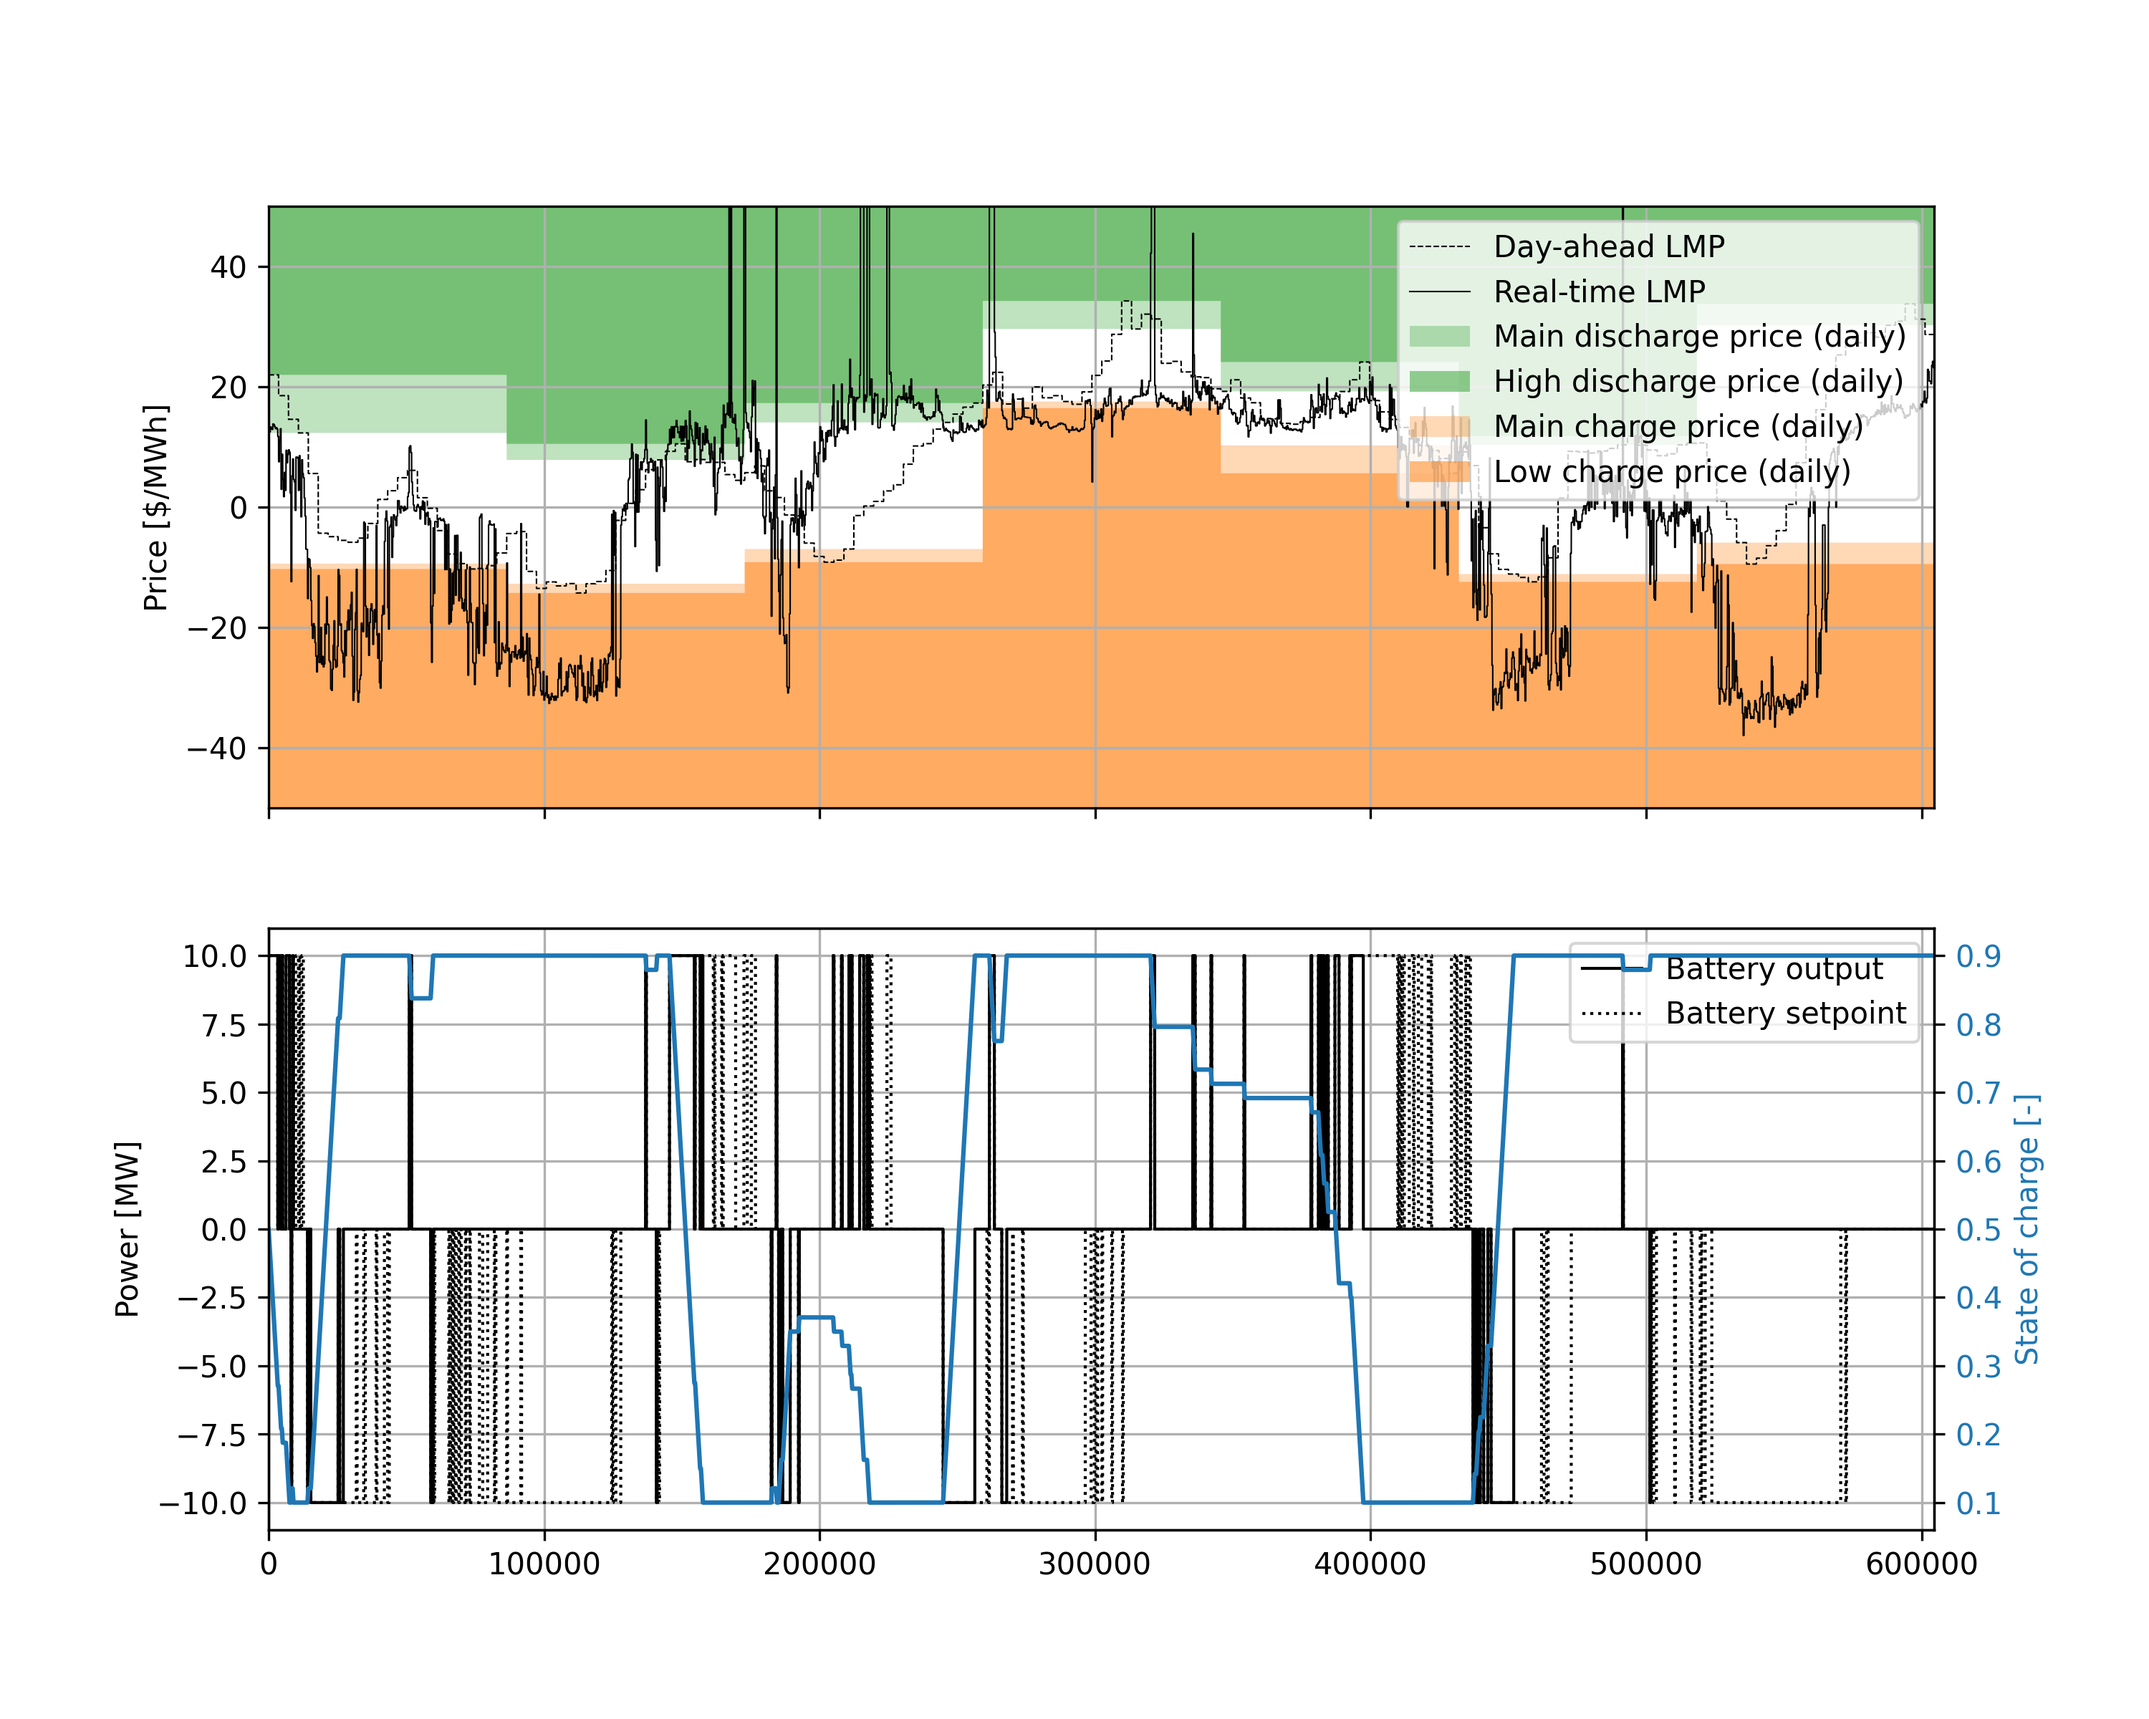
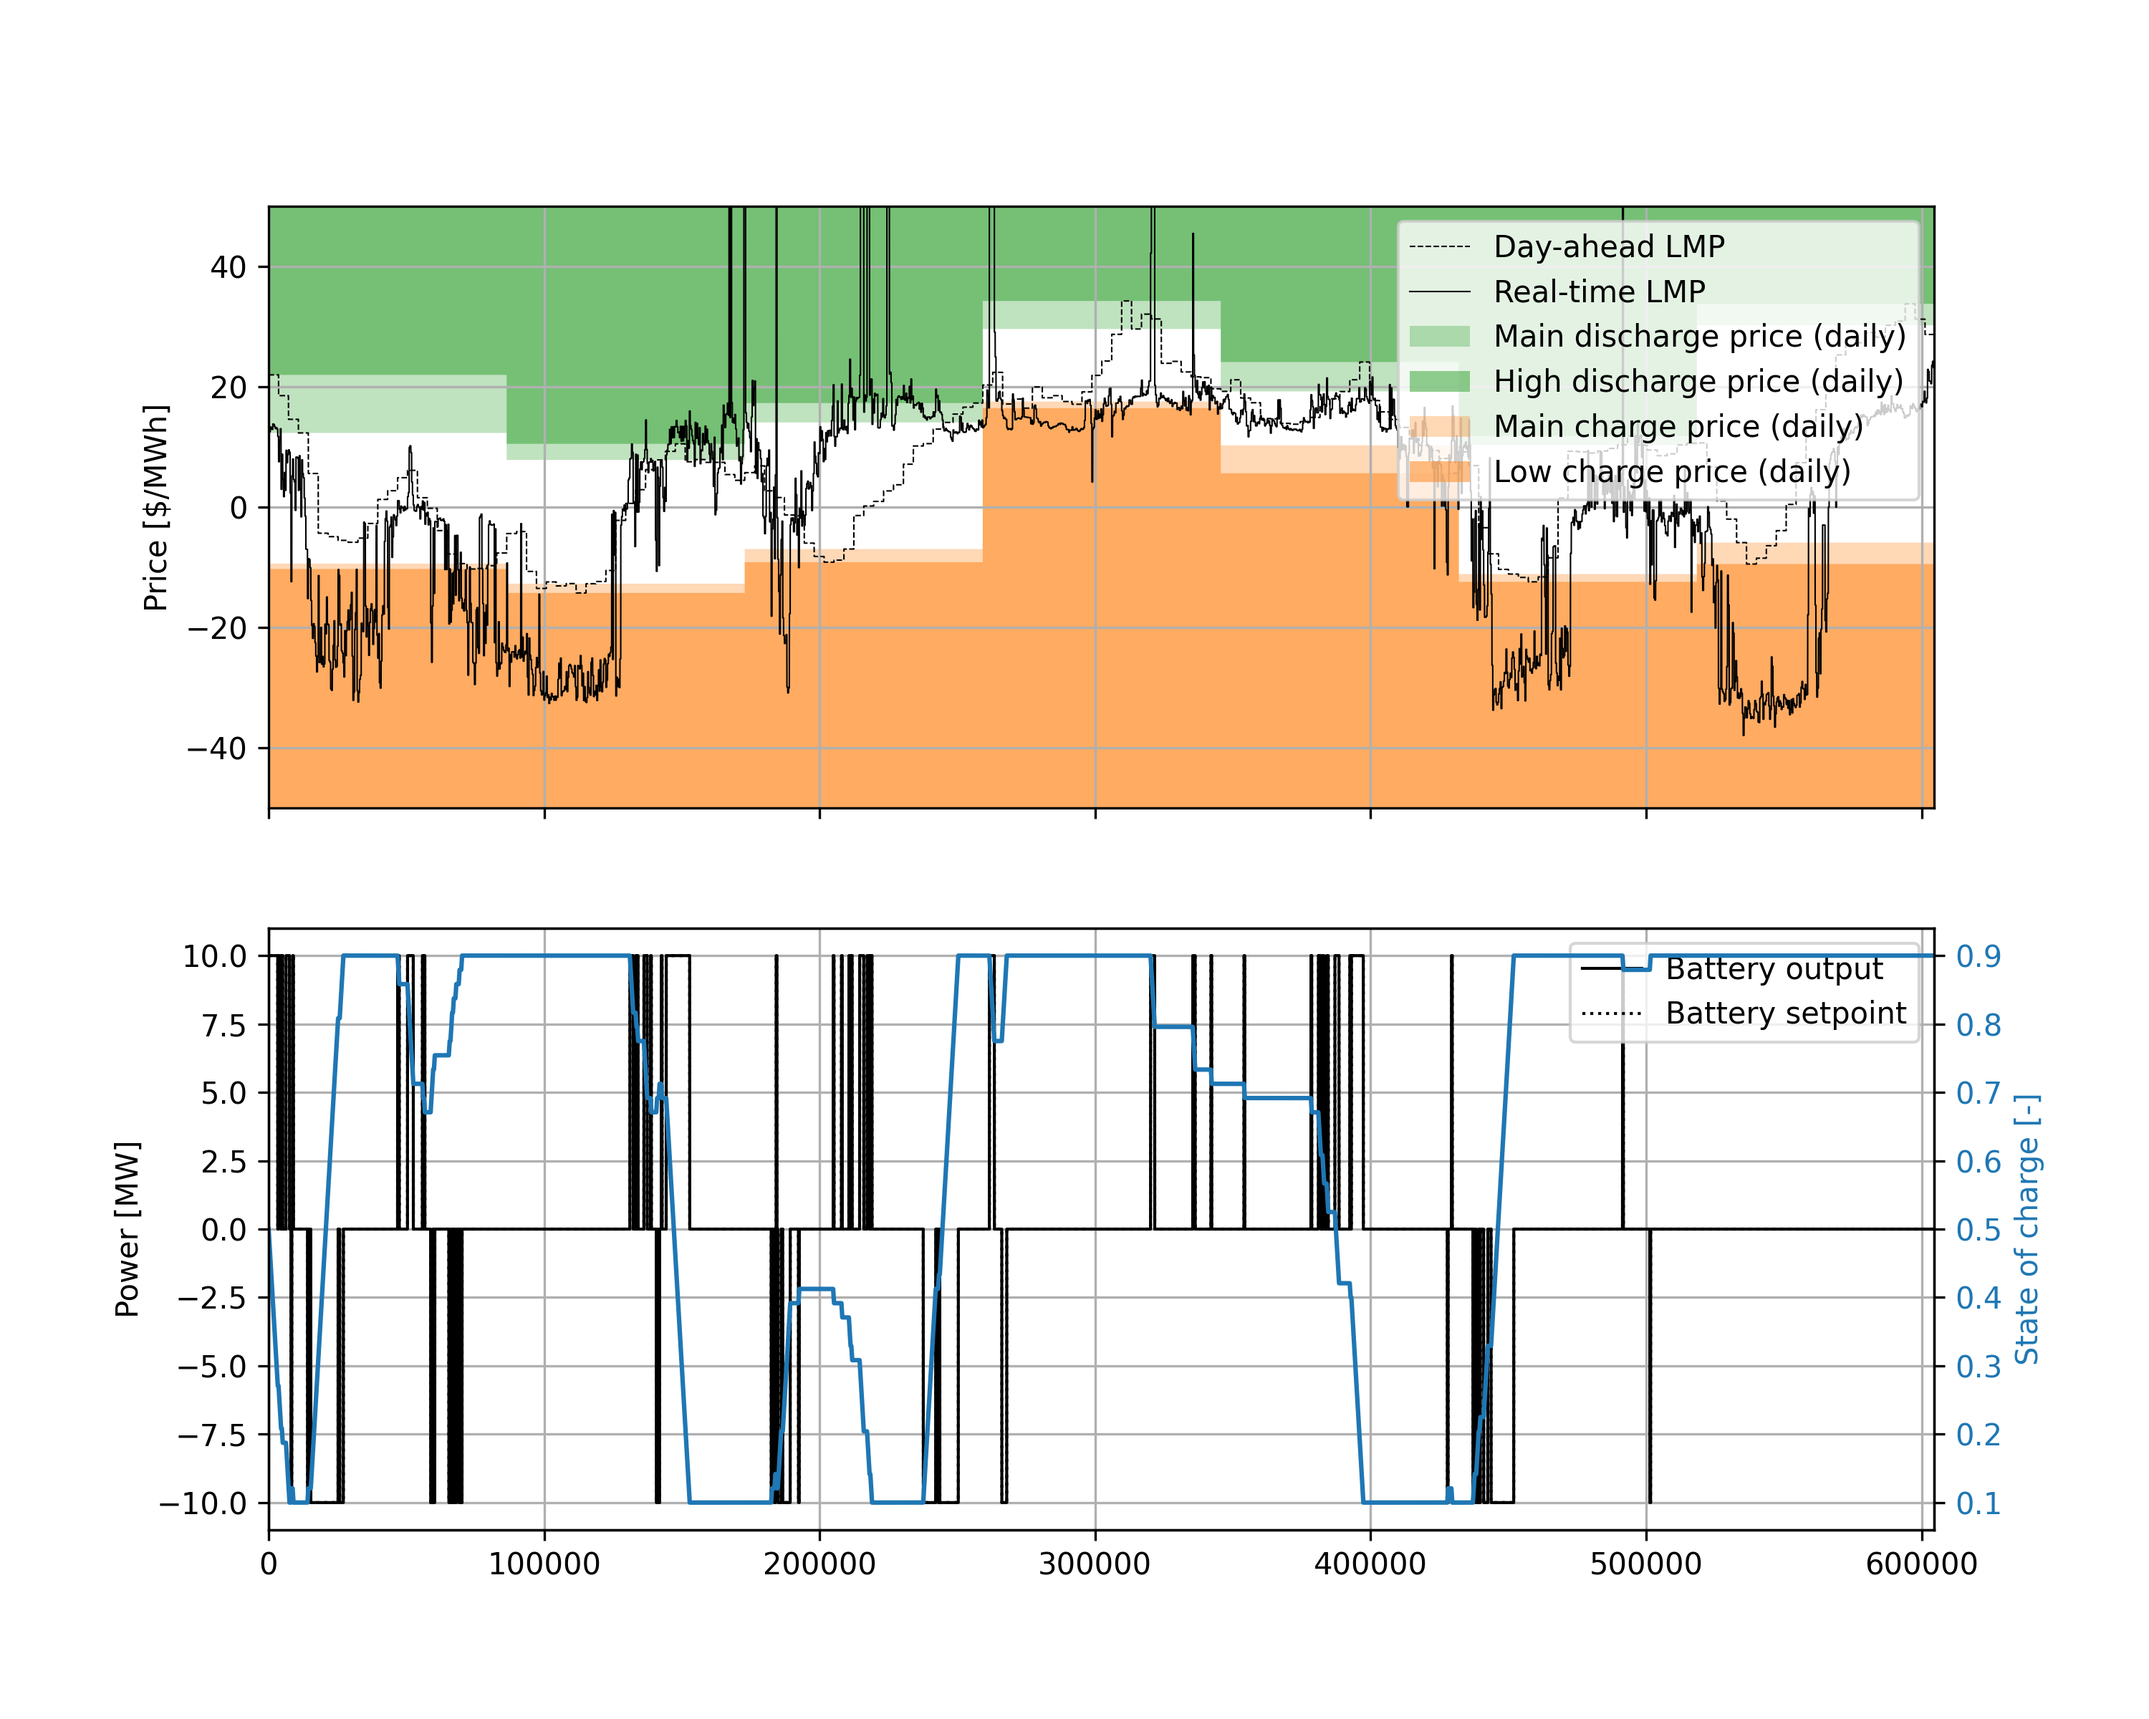
Minor example plots updates

diff --git a/examples/battery_market_revenue_control/plot_outputs.py b/examples/battery_market_revenue_control/plot_outputs.py
@@ -1,4 +1,5 @@
 # Plot the outputs of the simulation for the wind and storage example
+import argparse
 
 import matplotlib.pyplot as plt
 import numpy as np
@@ -138,12 +139,23 @@ def plot_outputs():
 
     # Compute total revenue on real-time market
     df["revenue_rt"] = df["battery.power"] / 1e3 * df["external_signals.lmp_rt"] / 3600
-    print("Real-time revenue over simulation: ${:.1f}".format(df["revenue_rt"].sum()))
+    print("Real-time revenue over simulation: ${:.2f}".format(df["revenue_rt"].sum()))
 
     return fig
 
 
 if __name__ == "__main__":
+    parser = argparse.ArgumentParser(description="Plot outputs of battery market example")
+
+    parser.add_argument(
+        "--save_plots", type=bool, default=False, help="Whether to save the generated plots"
+    )
+
+    args = parser.parse_args()
+
     fig = plot_outputs()
-    # fig.savefig("../../docs/graphics/battery-market.png", dpi=300, format="png")
+
+    if args.save_plots:
+        fig.savefig("../../docs/graphics/battery-market.png", dpi=300, format="png")
+
     plt.show()

diff --git a/examples/wind_farm_power_tracking/plot_outputs.py b/examples/wind_farm_power_tracking/plot_outputs.py
@@ -1,3 +1,5 @@
+import argparse
+
 import matplotlib.pyplot as plt
 from hercules import HerculesOutput
 
@@ -66,6 +68,17 @@ def plot_outputs():
 # both controllers meet the setpoint.
 
 if __name__ == "__main__":
+    parser = argparse.ArgumentParser(description="Plot outputs of battery market example")
+
+    parser.add_argument(
+        "--save_plots", type=bool, default=False, help="Whether to save the generated plots"
+    )
+
+    args = parser.parse_args()
+
     fig = plot_outputs()
-    # fig.savefig("../../docs/graphics/wf-power-tracking-plot.png", dpi=300, format="png")
+
+    if args.save_plots:
+        fig.savefig("../../docs/graphics/wf-power-tracking-plot.png", dpi=300, format="png")
+
     plt.show()

diff --git a/examples/simple_hybrid_plant/plot_outputs.py b/examples/simple_hybrid_plant/plot_outputs.py
@@ -1,3 +1,5 @@
+import argparse
+
 import matplotlib.pyplot as plt
 import numpy as np
 from hercules import HerculesOutput
@@ -103,6 +105,17 @@ def plot_outputs():
 
 
 if __name__ == "__main__":
+    parser = argparse.ArgumentParser(description="Plot outputs of battery market example")
+
+    parser.add_argument(
+        "--save_plots", type=bool, default=False, help="Whether to save the generated plots"
+    )
+
+    args = parser.parse_args()
+
     fig = plot_outputs()
-    # fig.savefig("../../docs/graphics/simple-hybrid-example-plot.png", dpi=300, format="png")
+
+    if args.save_plots:
+        fig.savefig("../../docs/graphics/simple-hybrid-example-plot.png", dpi=300, format="png")
+
     plt.show()

diff --git a/examples/single_turbine_flexible_interconnect/plot_outputs.py b/examples/single_turbine_flexible_interconnect/plot_outputs.py
@@ -1,3 +1,5 @@
+import argparse
+
 import matplotlib.pyplot as plt
 import numpy as np
 from hercules import HerculesOutput
@@ -139,6 +141,17 @@ def plot_outputs():
 
 
 if __name__ == "__main__":
+    parser = argparse.ArgumentParser(description="Plot outputs of battery market example")
+
+    parser.add_argument(
+        "--save_plots", type=bool, default=False, help="Whether to save the generated plots"
+    )
+
+    args = parser.parse_args()
+
     fig = plot_outputs()
-    # fig.savefig("../../docs/graphics/flexible-interconnect.png", dpi=300, format="png")
+
+    if args.save_plots:
+        fig.savefig("../../docs/graphics/flexible-interconnect.png", dpi=300, format="png")
+
     plt.show()

diff --git a/examples/battery_control_comparison/runscript.py b/examples/battery_control_comparison/runscript.py
@@ -1,3 +1,5 @@
+import argparse
+
 import matplotlib.pyplot as plt
 import numpy as np
 import pandas as pd
@@ -10,7 +12,15 @@ from hycon.interfaces import HerculesInterface
 
 prepare_output_directory()
 
-save_figs = False
+parser = argparse.ArgumentParser(description="Plot outputs of battery market example")
+
+parser.add_argument(
+    "--save_plots", type=bool, default=False, help="Whether to save the generated plots"
+)
+
+args = parser.parse_args()
+
+save_figs = args.save_plots
 
 # Generate the reference signal to track. We will simplify things by using an
 # existing input file.

diff --git a/examples/lookup-based_wake_steering_florisstandin/plot_output_data.py b/examples/lookup-based_wake_steering_florisstandin/plot_output_data.py
@@ -61,6 +61,6 @@ ax[1].legend(loc="lower left")
 # wind direction propagates instantaneously into the power signal (as steady-state FLORIS is used
 # in place of the dynamic AMR-wind simulation.
 
-# Note that in the upper plot, T000 dir., T001 dir., and T001 yaw are identical througout.
+# Note that in the upper plot, T000 dir., T001 dir., and T001 yaw are identical throughout.
 
 plt.show()

diff --git a/docs/examples.md b/docs/examples.md
@@ -162,6 +162,6 @@ Running the simulation produces the following plot:
 )
 as well printing
 ```
-Real-time revenue over simulation: $6636.5
+Real-time revenue over simulation: $6775.44
 ```
 to the console.
